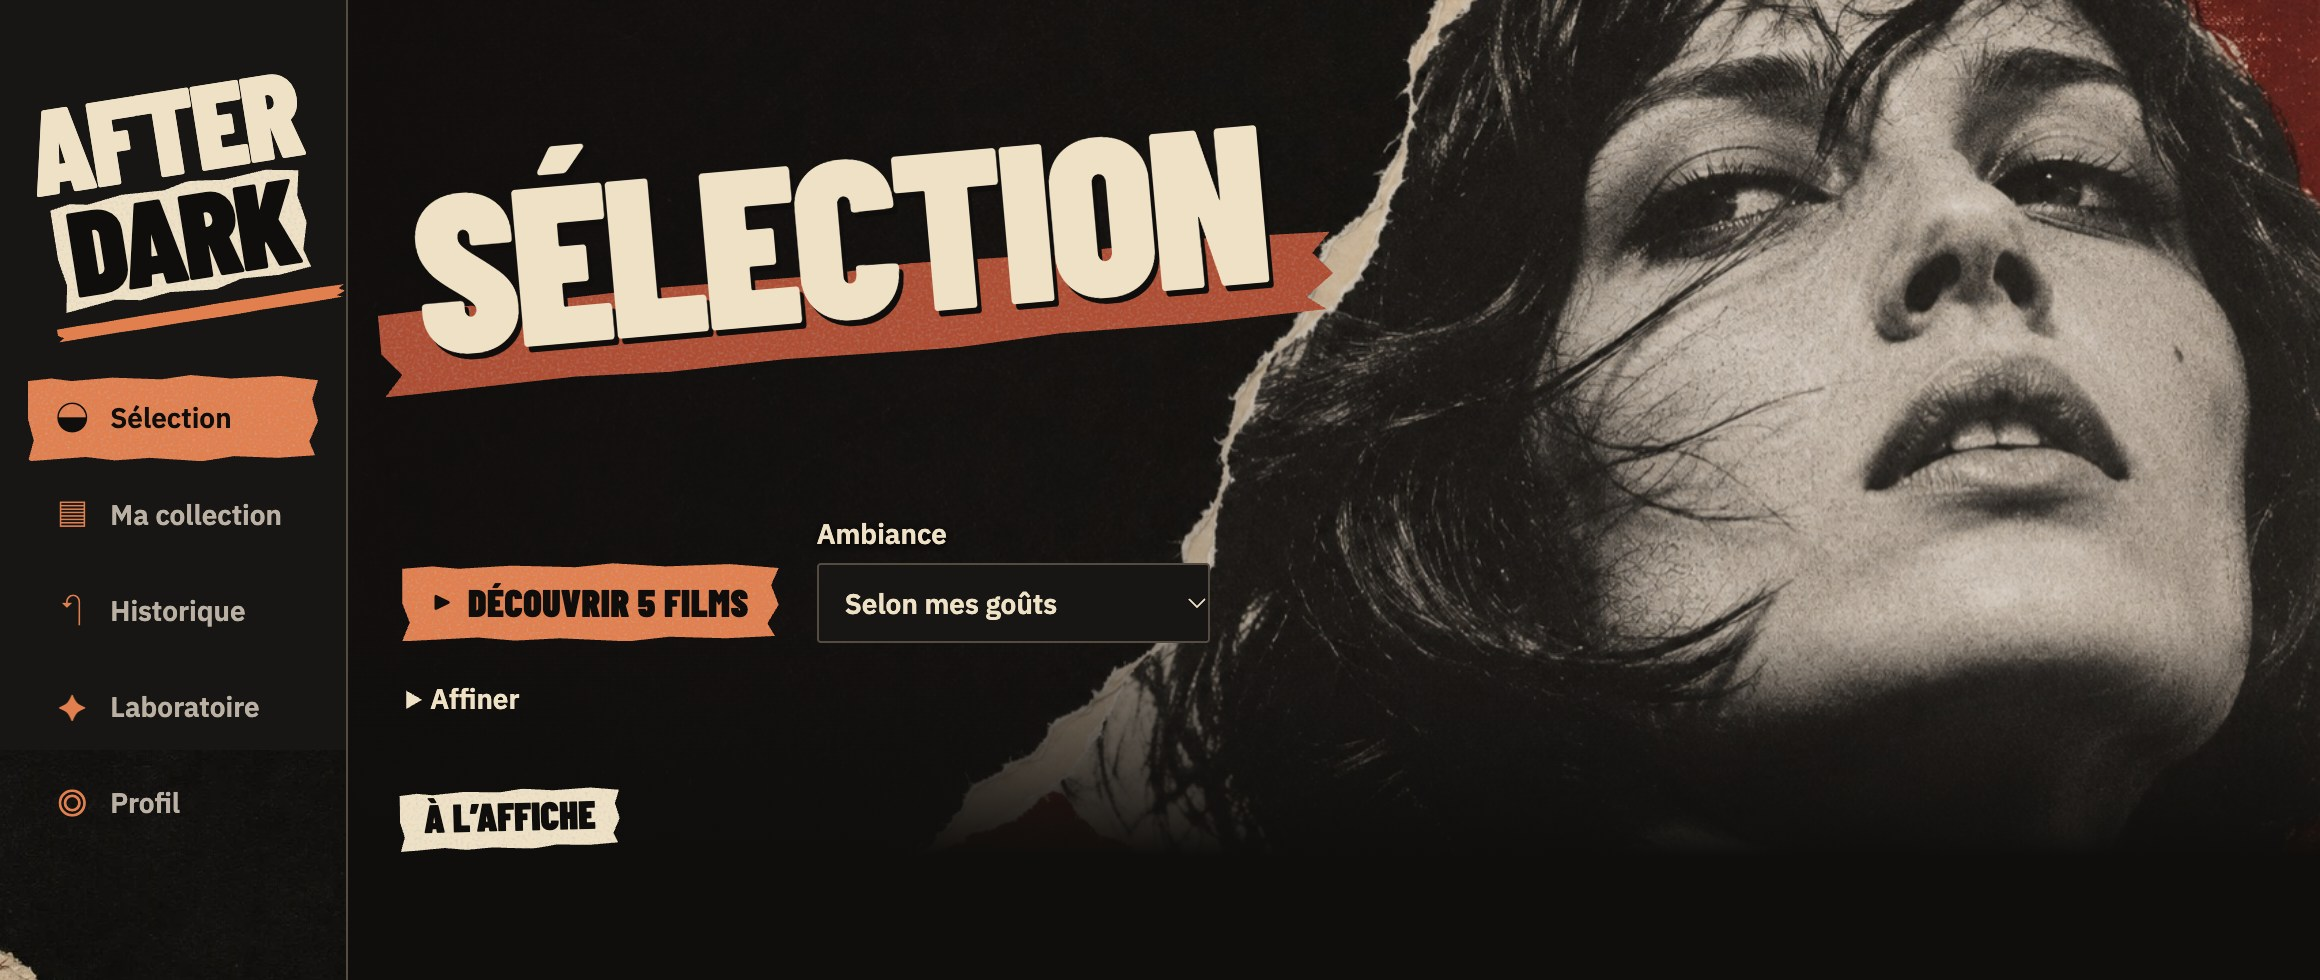
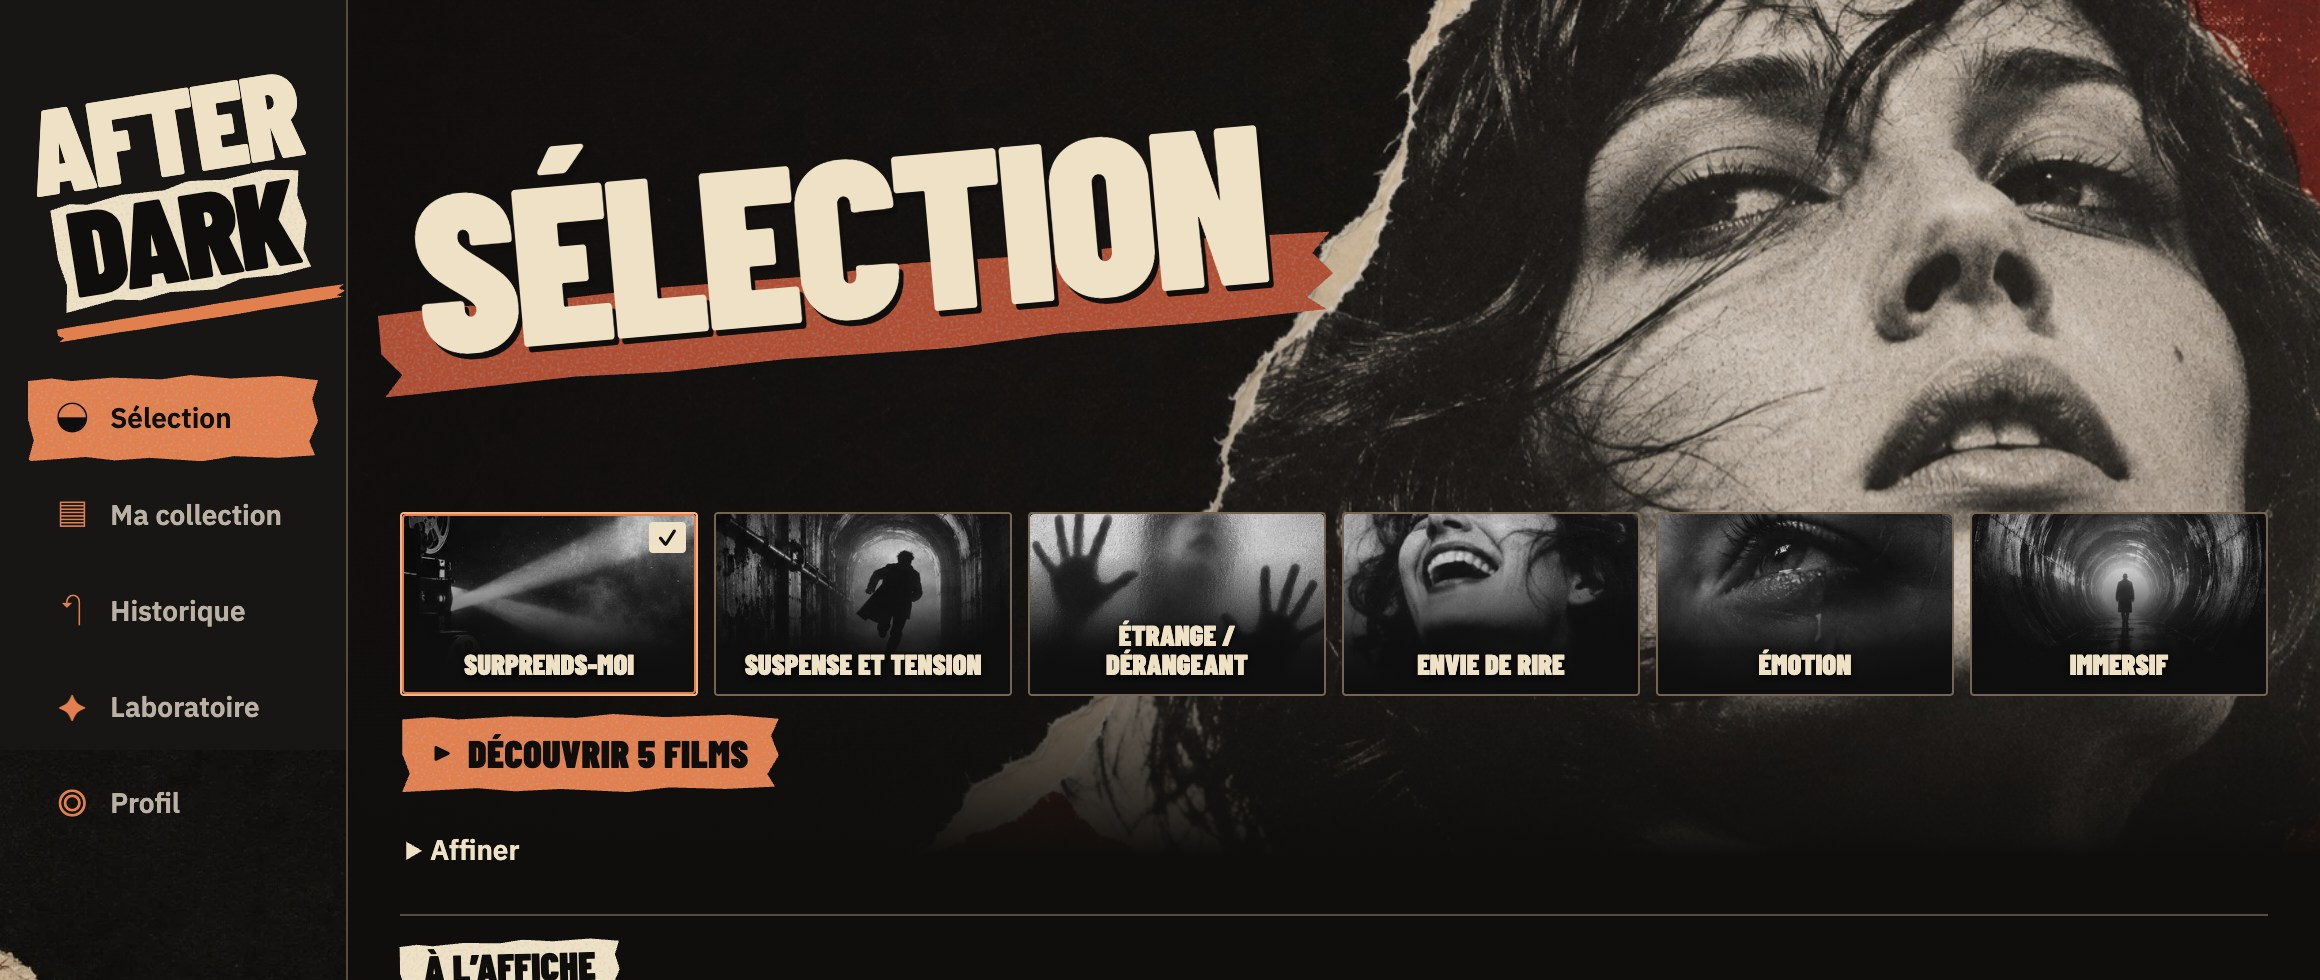
Restore the illustrated mood cards in Sélection

Changed region(s): [[0.1552, 0.5204, 0.9931, 0.8878], [0.1552, 0.949, 0.2793, 1.0]]

diff --git a/src/renderer/style.css b/src/renderer/style.css
@@ -131,15 +131,45 @@ main { min-width: 0; max-width: 1380px; width: 100%; margin: 0 auto; padding: 0 
   content: ""; position: absolute; z-index: -1; inset: 61% -5% 0 -3%;
   background: url("./art/ink.svg"), #bc4529; clip-path: var(--tear);
 }
-.selection-controls {
-  grid-column: 1 / -1; display: flex; flex-wrap: wrap; align-items: end; gap: 12px 18px;
+.mood-fieldset { grid-column: 1 / -1; min-width: 0; }
+.mood-fieldset legend {
+  position: absolute; width: 1px; height: 1px; clip-path: inset(50%); overflow: hidden;
 }
-.mood-select { display: grid; gap: 4px; min-width: 0; font-weight: 600; }
-.mood-select span { color: var(--paper); text-shadow: 0 1px 4px #000; }
-.mood-select select {
-  width: 100%; min-height: 40px; padding: 5px 9px; color: var(--paper);
-  border: 1px solid var(--border); border-radius: var(--radius); background: var(--surface); font: inherit;
+.mood-grid { display: grid; grid-template-columns: repeat(6, minmax(0, 1fr)); gap: var(--gap); }
+.mood {
+  position: relative; isolation: isolate; display: flex; justify-content: center; align-items: end;
+  min-height: 92px; padding: 27px 8px 8px; text-align: center; text-wrap: balance;
+  border: 1px solid #77634e; border-radius: 2px; text-shadow: 0 1px 4px #000;
+  font: 900 1.02rem/1.02 var(--display); text-transform: uppercase; cursor: pointer;
+  transition: border-color var(--motion);
 }
+.mood::before {
+  content: ""; position: absolute; inset: 0; z-index: -1; border-radius: inherit; pointer-events: none;
+  background: linear-gradient(0deg, #110e0d, #110e0deb 25%, transparent 78%), var(--still) center 38% / cover;
+  filter: grayscale(1); transition: filter var(--motion);
+}
+.mood:hover::before { filter: grayscale(1) brightness(1.06); }
+.mood[data-mood="surprise"] { --still: url("./art/mood-surprise.webp"); }
+.mood[data-mood="tension"] { --still: url("./art/mood-tension.webp"); }
+.mood[data-mood="strange"] { --still: url("./art/mood-strange.webp"); }
+.mood[data-mood="laugh"] { --still: url("./art/mood-laugh.webp"); }
+.mood[data-mood="emotion"] { --still: url("./art/mood-emotion.webp"); }
+.mood[data-mood="immersion"] { --still: url("./art/mood-immersion.webp"); }
+.mood:hover { border-color: var(--paper); }
+.mood:has(input:checked) { border-color: var(--focus); }
+.mood:has(input:checked)::after {
+  content: ""; position: absolute; inset: 0; border-radius: inherit; pointer-events: none;
+  box-shadow: inset 0 0 0 1px var(--accent);
+}
+.mood:has(input:focus-visible) { outline: 2px solid var(--focus); outline-offset: 3px; }
+.mood:has(input:disabled) { opacity: .65; cursor: default; }
+.mood input { position: absolute; inline-size: 1px; block-size: 1px; opacity: 0; }
+.mood-check {
+  position: absolute; right: 5px; top: 4px; padding: 0 4px; border-radius: 2px;
+  background: var(--paper); color: var(--canvas); text-shadow: none;
+  font: 600 .85rem var(--text); visibility: hidden;
+}
+.mood:has(input:checked) .mood-check { visibility: visible; }
 .selection-refine { grid-column: 1 / -1; min-width: 0; }
 .selection-refine > summary { min-height: 40px; color: var(--paper); }
 .selection-refine > summary:hover { color: var(--focus); }
@@ -162,7 +192,7 @@ main { min-width: 0; max-width: 1380px; width: 100%; margin: 0 auto; padding: 0 
 }
 .button-primary:enabled:hover { border-color: transparent; background: transparent; }
 .button-primary:enabled:hover::before { background-color: var(--focus); }
-.programme .button-primary { font-size: 1.36rem; min-height: 40px; gap: 8px; white-space: nowrap; }
+.programme > .button-primary { grid-column: 1 / -1; justify-self: start; font-size: 1.36rem; min-height: 40px; gap: 8px; white-space: nowrap; }
 .programme .button-primary span { font: 12px var(--text); }
 .button-quiet { background: var(--surface); }
 summary { width: fit-content; padding: 9px 3px; font-weight: 600; }
@@ -310,6 +340,9 @@ summary:hover { color: var(--focus); }
 .enrichment progress { width: 100%; accent-color: var(--accent); display: block; margin: 8px 0 4px; }
 .enrichment p { font-size: .88rem; }
 
+@media (max-width: 950px) {
+  .mood-grid { grid-template-columns: repeat(3, minmax(0, 1fr)); }
+}
 @media (max-width: 650px) {
   .shell { display: flex; flex-direction: column; }
   .sidebar { display: grid; gap: 7px; position: static; height: auto; padding: 8px 13px 7px; border-right: 0; border-bottom: 1px solid var(--border); }
@@ -332,7 +365,7 @@ summary:hover { color: var(--focus); }
     background-size: auto, auto, auto 100%;
   }
   .programme { grid-template-columns: minmax(0, 1fr); }
-  .programme .button-primary { justify-self: start; }
+  .mood { min-height: 65px; padding: 22px 5px 6px; font-size: .96rem; }
   .page-heading {
     background:
       linear-gradient(0deg, var(--canvas), transparent 50%),

diff --git a/tests/renderer.test.ts b/tests/renderer.test.ts
@@ -12,19 +12,19 @@ import { Tonight } from "../src/renderer/tonight";
 import { AppShell } from "../src/renderer/shell";
 
 describe("Interface Neon Underground", () => {
-  it("propose les six ambiances dans un contrôle natif", () => {
+  it("préserve les six radios natives et leur sélection", () => {
     const html = renderToStaticMarkup(createElement(MoodSelector, { value: "strange", onChange() {}, busy: false }));
     for (const mood of moodOrder) expect(html).toContain(`value="${mood}"`);
-    expect(html).toContain('<select name="mood">');
-    expect(html).toMatch(/value="strange" selected=""/);
+    expect(html.match(/type="radio"/g)).toHaveLength(6);
+    expect(html).toMatch(/checked="" value="strange"/);
   });
 
   it("ouvre la Sélection avec un seul bouton principal et les filtres repliés", () => {
     const html = renderToStaticMarkup(createElement(Tonight, { ready: true, onComplete() {}, filmActions: () => null }));
     expect(html).toContain("<h1>Sélection</h1>");
-    expect(html).toContain('value="surprise" selected="">Selon mes goûts');
+    expect(html).toMatch(/checked="" value="surprise"\/><span>Surprends-moi<\/span>/);
     expect(html.match(/type="submit"/g)).toHaveLength(1);
-    expect(html).toMatch(/Découvrir 5 films.*<details class="selection-refine"><summary>Affiner/);
+    expect(html).toMatch(/<fieldset class="mood-fieldset".*<\/fieldset><button[^>]*type="submit"[^>]*>.*Découvrir 5 films.*<details class="selection-refine"><summary>Affiner/);
     const shell = renderToStaticMarkup(createElement(AppShell, {
       page: "tonight", status: "Base locale prête", navigate() {}, children: null,
     }));

diff --git a/src/renderer/controls.tsx b/src/renderer/controls.tsx
@@ -7,14 +7,14 @@ export const moodOrder = ["surprise", "tension", "strange", "laugh", "emotion", 
 export function MoodSelector({ value, onChange, busy }: {
   value: Criteria["mood"]; onChange: (value: Criteria["mood"]) => void; busy: boolean;
 }) {
-  return <label className="mood-select">
-    <span>Ambiance</span>
-    <select name="mood" value={value} disabled={busy} onChange={(event) => onChange(event.currentTarget.value as Criteria["mood"])}>
-      {moodOrder.map((mood) => <option key={mood} value={mood}>
-        {mood === "surprise" ? "Selon mes goûts" : moods[mood]}
-      </option>)}
-    </select>
-  </label>;
+  return <fieldset className="mood-fieldset" disabled={busy}>
+    <legend>Votre humeur</legend>
+    <div className="mood-grid">{moodOrder.map((mood) => <label className="mood" data-mood={mood} key={mood}>
+      <input name="mood" type="radio" value={mood} checked={value === mood} onChange={() => onChange(mood)} />
+      <span>{mood === "immersion" ? "Immersif" : moods[mood]}</span>
+      <span className="mood-check" aria-hidden="true">✓</span>
+    </label>)}</div>
+  </fieldset>;
 }
 
 const countries: Record<string, string> = {

diff --git a/src/renderer/tonight.tsx b/src/renderer/tonight.tsx
@@ -59,12 +59,10 @@ export function Tonight({ ready, onComplete, filmActions }: {
       <header className="hero">
         <h1>Sélection</h1>
       </header>
-      <div className="selection-controls">
-        <button className="button button-primary" type="submit" disabled={loading || !ready}>
-          <span aria-hidden="true">▶</span> {loading ? "Recherche en cours…" : "Découvrir 5 films"}
-        </button>
-        <MoodSelector value={mood} onChange={setMood} busy={loading} />
-      </div>
+      <MoodSelector value={mood} onChange={setMood} busy={loading} />
+      <button className="button button-primary" type="submit" disabled={loading || !ready}>
+        <span aria-hidden="true">▶</span> {loading ? "Recherche en cours…" : "Découvrir 5 films"}
+      </button>
       <details className="selection-refine">
         <summary>Affiner</summary>
         <FilterPanel busy={loading} value={filters} onChange={setFilters} />
